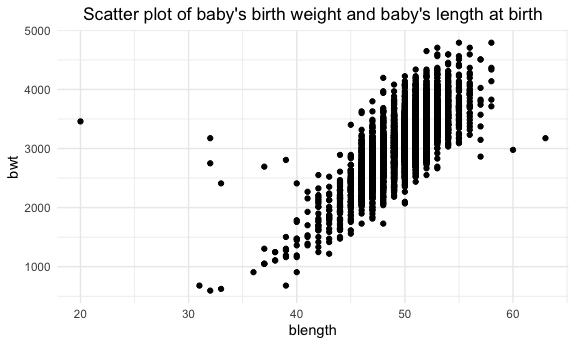
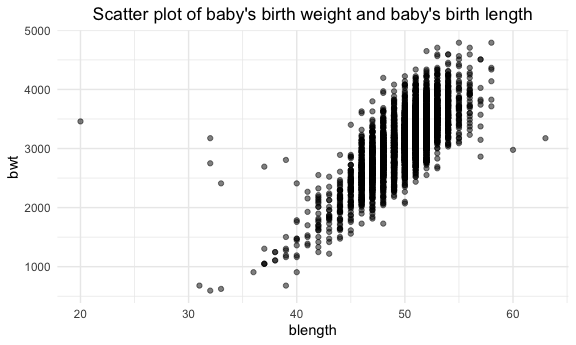
cross validation

diff --git a/p8105_hw6_yj2686.md b/p8105_hw6_yj2686.md
@@ -5,7 +5,7 @@ Yiqun Jin
 
 ## Problem 1
 
-Load and clean the data for regression analysis
+### Load and clean the data for regression analysis
 
 ``` r
 birthweight = read.csv("./birthweight.csv") %>% 
@@ -21,7 +21,7 @@ sum(is.na(birthweight))
 
     ## [1] 0
 
-Propose a regression model for birth weight.
+### Propose a regression model for birth weight.
 
 Since birth weight of baby is usually associated with baby’s length at
 birth, I made a scatter plot of baby’s length at birth `blength`.
@@ -29,8 +29,8 @@ birth, I made a scatter plot of baby’s length at birth `blength`.
 ``` r
 birthweight %>% 
   ggplot(aes(x = blength, y = bwt)) + 
-  geom_point() +
-  labs(title = "Scatter plot of baby's birth weight and baby's length at birth") +
+  geom_point(alpha = .5) +
+  labs(title = "Scatter plot of baby's birth weight and baby's birth length") +
   theme(plot.title = element_text(hjust = 0.5))
 ```
 
@@ -59,7 +59,7 @@ birthweight %>%
   modelr::add_predictions(fit1) %>% 
   ggplot(aes(x = pred, y = resid)) +
   geom_point(alpha = .3) +
-  labs(title = "Plot of model residuals against fitted values",
+  labs(title = "Plot of model residuals against fitted values for fit1 model",
        x = "Fitted Values",
        y = "Residuals") +
   theme(plot.title = element_text(hjust = 0.5))
@@ -67,17 +67,14 @@ birthweight %>%
 
 <img src="p8105_hw6_yj2686_files/figure-gfm/unnamed-chunk-2-1.png" width="90%" />
 
-Compare your model to two others:
+### Compare your model to two others:
 
 One using length at birth and gestational age as predictors (main
 effects only) One using head circumference, length, sex, and all
-interactions (including the three-way interaction) between these Make
-this comparison in terms of the cross-validated prediction error; use
-crossv\_mc and functions in purrr as appropriate.
+interactions (including the three-way interaction) between these
 
 ``` r
 fit2 = lm(bwt ~ blength + gaweeks,birthweight)
-fit3 = lm(bwt ~ bhead + blength + babysex + bhead*blength + bhead*babysex + blength*babysex + bhead*blength*babysex, birthweight)
 
 fit2 %>% 
   broom::tidy() %>% 
@@ -91,6 +88,22 @@ fit2 %>%
 | gaweeks     |    27.04673 |  1.717930 |  15.74379 |       0 |
 
 ``` r
+birthweight %>% 
+  modelr::add_residuals(fit2) %>% 
+  modelr::add_predictions(fit2) %>% 
+  ggplot(aes(x = pred, y = resid)) +
+  geom_point(alpha = .3) +
+  labs(title = "Plot of model residuals against fitted values for fit2 model",
+       x = "Fitted Values",
+       y = "Residuals") +
+  theme(plot.title = element_text(hjust = 0.5))
+```
+
+<img src="p8105_hw6_yj2686_files/figure-gfm/unnamed-chunk-3-1.png" width="90%" />
+
+``` r
+fit3 = lm(bwt ~ bhead + blength + babysex + bhead*blength + bhead*babysex + blength*babysex + bhead*blength*babysex, birthweight)
+
 fit3 %>% 
   broom::tidy() %>% 
   knitr::kable()
@@ -106,6 +119,62 @@ fit3 %>%
 | bhead:babysexmale         |   198.393181 |   51.0916850 |  3.8830816 | 0.0001047 |
 | blength:babysexmale       |   123.772887 |   35.1185360 |  3.5244319 | 0.0004288 |
 | bhead:blength:babysexmale |    -3.878053 |    1.0566296 | -3.6702106 | 0.0002453 |
+
+``` r
+birthweight %>% 
+  modelr::add_residuals(fit3) %>% 
+  modelr::add_predictions(fit3) %>% 
+  ggplot(aes(x = pred, y = resid)) +
+  geom_point(alpha = .3) +
+  labs(title = "Plot of model residuals against fitted values for fit3 model",
+       x = "Fitted Values",
+       y = "Residuals") +
+  theme(plot.title = element_text(hjust = 0.5))
+```
+
+<img src="p8105_hw6_yj2686_files/figure-gfm/unnamed-chunk-3-2.png" width="90%" />
+
+### Make this comparison in terms of the cross-validated prediction error
+
+``` r
+cv_df = 
+  crossv_mc(birthweight, 100) %>% 
+  mutate(
+    train = map(train, as_tibble),
+    test = map(test, as_tibble)
+  ) %>% 
+  mutate(
+    fit1_mod = map(train, ~lm(bwt ~ blength, data = birthweight)),
+    fit2_mod = map(train, ~lm(bwt ~ blength + gaweeks,birthweight)),
+    fit3_mod = map(train, ~lm(bwt ~ bhead + blength + babysex + bhead*blength + bhead*babysex +       blength*babysex + bhead*blength*babysex, birthweight))
+  ) %>% 
+  mutate(
+    rmse_fit1 = map2_dbl(fit1_mod, test, ~rmse(model = .x, data = .y)),
+    rmse_fit2 = map2_dbl(fit2_mod, test, ~rmse(model = .x, data = .y)),
+    rmse_fit3 = map2_dbl(fit3_mod, test, ~rmse(model = .x, data = .y))
+  )
+  
+cv_df %>% 
+  select(starts_with("rmse")) %>% 
+  pivot_longer(
+    everything(),
+    names_to = "model", 
+    values_to = "rmse",
+    names_prefix = "rmse_") %>% 
+  mutate(model = fct_inorder(model)) %>% 
+  ggplot(aes(x = model, y = rmse)) + geom_violin() +
+  labs(
+    title = "distribution of RMSE values for three candidate model",
+    y = "Root-mean-square-deviation"
+  )+
+  theme(plot.title = element_text(hjust = 0.5))
+```
+
+<img src="p8105_hw6_yj2686_files/figure-gfm/unnamed-chunk-4-1.png" width="90%" />
+
+According to the distribution of RMSE, fit3 model have the lowest RMSE
+value, meaning that fit3 would be the most optimal model among three
+candidate models
 
 ## Problem 2
 
